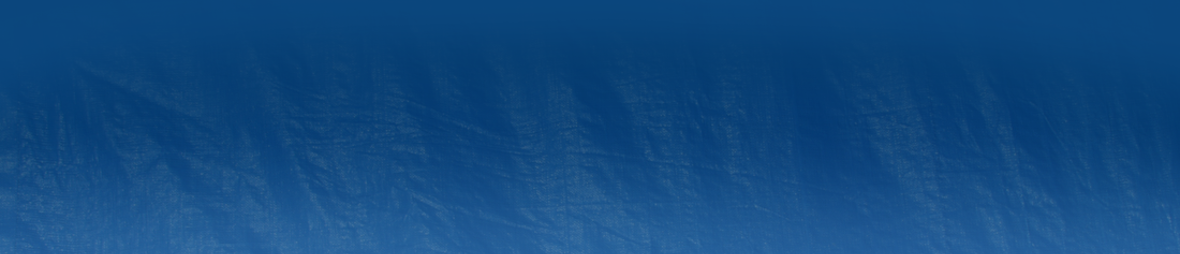
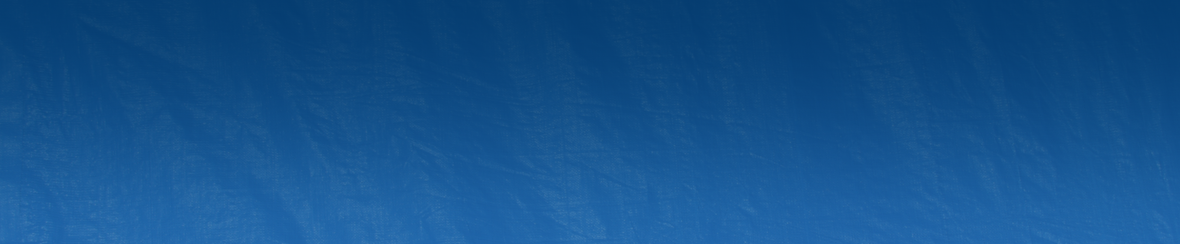
Unknown changes

diff --git a/mm.scss b/mm.scss
@@ -111,7 +111,7 @@ $resources: "//www2.lanecc.edu/custom/mm/images/";
                 background-color:transparent;
                 .lmm_pane{
                     border-top:$border_blue solid 1px;
-                    background-image:url($resources + "tarp.png");
+                    background-image:url($resources + "tarp.jpg");
                     position:relative;
                     width:940px;
                     margin-left:auto;
